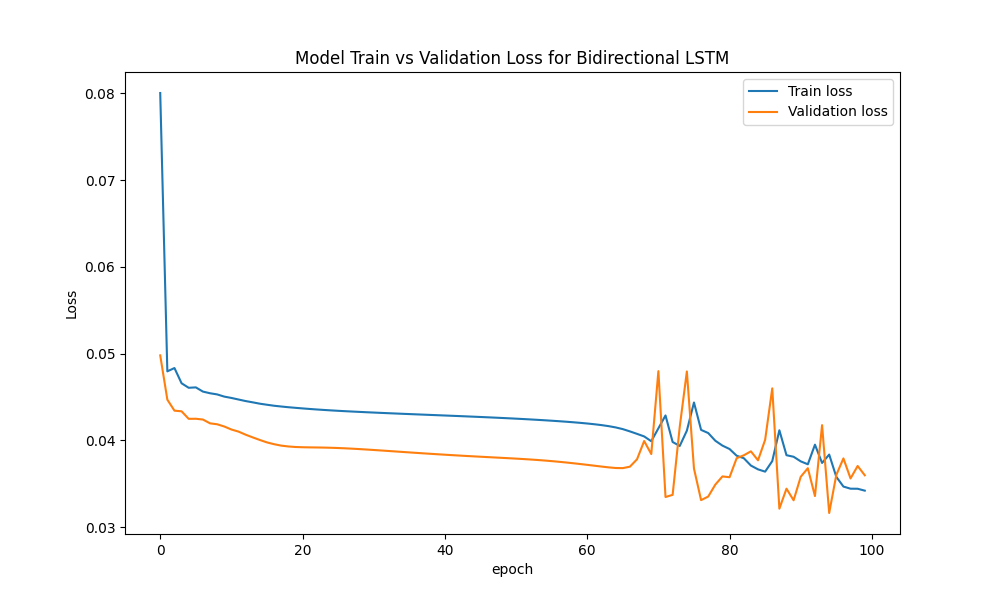
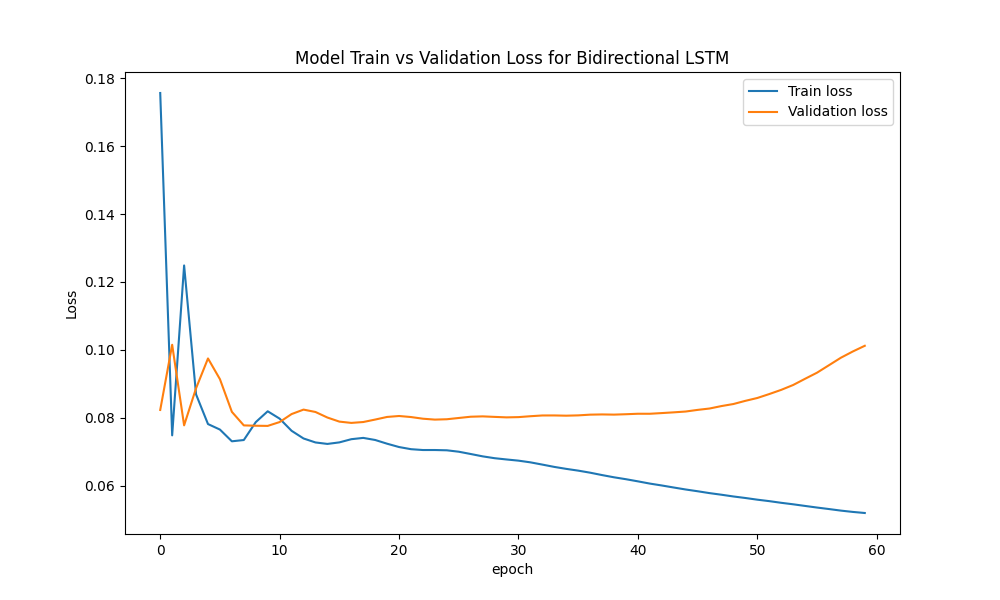
CPU prediction server changes added

diff --git a/src/optimize_server/app/services/cpu_prediction_service.py b/src/optimize_server/app/services/cpu_prediction_service.py
@@ -26,83 +26,84 @@ async def history_cpu_start():
     await generate_cpu_utilization_graphs(df)
     return {"status":"history plots complete"}
 
-async def make_pod_predictions_start(pod_name:str):
-    df = await data_load_cpu()
-    df = await preprocess_cpu_utilization_dataset(df)
-    dataframe = df[[pod_name]]
-    train_data, test_data = split_test_and_train(dataframe, 0.6)
-    train_scaled , test_scaled , scaler = scale_data_using_minmax_scaler(train_data, test_data)
-    LOOK_BACK = 30
-    X_train, y_train = create_dataset(train_scaled,LOOK_BACK)
-    X_test, y_test = create_dataset(test_scaled,LOOK_BACK)
-    model_bilstm_obj = Bidirectional_LSTM_model(64,X_train,y_train,100,16)
-    model_gru_obj = GRU_model(64,X_train,y_train,100,16)
-    model_bilstm = model_bilstm_obj.build_model()
-    model_gru = model_gru_obj.build_model()
-    history_BiLSTM,model_bilstm = await model_bilstm_obj.fit_model(model_bilstm)
-    history_GRU,model_gru = await model_gru_obj.fit_model(model_gru)
+# async def make_single_pod_predictions_start(pod_name:str):
+#     df = await data_load_cpu()
+#     df = await preprocess_cpu_utilization_dataset(df)
+#     dataframe = df[[pod_name]]
+#     train_data, test_data = split_test_and_train(dataframe, 0.6)
+#     train_scaled , test_scaled , scaler = scale_data_using_minmax_scaler(train_data, test_data)
+#     LOOK_BACK = 30
+#     X_train, y_train = create_dataset(train_scaled,LOOK_BACK)
+#     X_test, y_test = create_dataset(test_scaled,LOOK_BACK)
+#     model_bilstm_obj = Bidirectional_LSTM_model(64,X_train,y_train,100,16)
+#     model_gru_obj = GRU_model(64,X_train,y_train,100,16)
+#     model_bilstm = model_bilstm_obj.build_model()
+#     model_gru = model_gru_obj.build_model()
+#     history_BiLSTM,model_bilstm = await model_bilstm_obj.fit_model(model_bilstm)
+#     history_GRU,model_gru = await model_gru_obj.fit_model(model_gru)
 
-    plot_loss (history_GRU, 'GRU','cpu')
-    plot_loss (history_BiLSTM, 'Bidirectional LSTM','cpu')   
+#     plot_loss (history_GRU, 'GRU','cpu')
+#     plot_loss (history_BiLSTM, 'Bidirectional LSTM','cpu')   
 
-    y_test = inverse_scale_data(scaler,y_test)
-    y_train = inverse_scale_data(scaler,y_train)
+#     y_test = inverse_scale_data(scaler,y_test)
+#     y_train = inverse_scale_data(scaler,y_train)
 
-    prediction_bilstm = model_bilstm_obj.predict(model_gru,X_test,scaler)
-    prediction_gru = model_gru_obj.predict(model_bilstm,X_test,scaler)
+#     prediction_bilstm = model_bilstm_obj.predict(model_gru,X_test,scaler)
+#     prediction_gru = model_gru_obj.predict(model_bilstm,X_test,scaler)
 
-    def prediction(model):
-        prediction = model.predict(X_train)
-        prediction = scaler.inverse_transform(prediction)
-        return prediction
+#     def prediction(model):
+#         prediction = model.predict(X_train)
+#         prediction = scaler.inverse_transform(prediction)
+#         return prediction
     
-    prediction_gru = prediction(model_gru)
-    prediction_bilstm = prediction(model_bilstm)
+#     prediction_gru = prediction(model_gru)
+#     prediction_bilstm = prediction(model_bilstm)
     
-    await export_predictions_dependecy(prediction_bilstm,'bilstm')
-    await export_predictions_dependecy(prediction_gru,'gru')
+#     await export_predictions_dependecy(prediction_bilstm,'bilstm')
+#     await export_predictions_dependecy(prediction_gru,'gru')
 
-    plot_multi_step(train_data,prediction_gru,prediction_bilstm,'cpu')
-    return []
+#     plot_multi_step(train_data,prediction_gru,prediction_bilstm,'cpu')
+#     return []
 
 async def make_pod_predictions(pod_name:str):
     df = await data_load_cpu_by_podname(pod_name)
     df = await preprocess_cpu_utilization_dataset(df)
-    dataframe = df[["Value"]]
-    train_data, test_data = split_test_and_train(dataframe, 0.8)
+    dataframe = df[["value"]]
+    print(dataframe.head())
+    train_data, test_data = split_test_and_train(dataframe, 0.7)
     train_scaled , test_scaled , scaler = scale_data_using_minmax_scaler(train_data, test_data)
     LOOK_BACK = 30
     X_train, y_train = create_dataset(train_scaled,LOOK_BACK)
     X_test, y_test = create_dataset(test_scaled,LOOK_BACK)
     model_bilstm_obj = Bidirectional_LSTM_model(64,X_train,y_train,100,16)
-    # model_gru_obj = GRU_model(64,X_train,y_train,100,16)
+    # # model_gru_obj = GRU_model(64,X_train,y_train,100,16)
     model_bilstm = model_bilstm_obj.build_model()
-    # model_gru = model_gru_obj.build_model()
+    # # model_gru = model_gru_obj.build_model()
     history_BiLSTM,model_bilstm = await model_bilstm_obj.fit_model(model_bilstm)
-    # history_GRU,model_gru = await model_gru_obj.fit_model(model_gru)
+    # # history_GRU,model_gru = await model_gru_obj.fit_model(model_gru)
 
-    # plot_loss (history_GRU, 'GRU','cpu')
+    # # plot_loss (history_GRU, 'GRU','cpu')
     plot_loss (history_BiLSTM, 'Bidirectional LSTM','cpu')   
 
-    y_test = inverse_scale_data(scaler,y_test)
+    # y_test = inverse_scale_data(scaler,y_test)
     y_train = inverse_scale_data(scaler,y_train)
 
     prediction_bilstm = model_bilstm_obj.predict(model_bilstm,X_test,scaler)
-    # prediction_gru = model_gru_obj.predict(model_gru,model_bilstm,X_test,scaler)
+    # # prediction_gru = model_gru_obj.predict(model_gru,model_bilstm,X_test,scaler)
 
     def prediction(model):
         prediction = model.predict(X_train)
         prediction = scaler.inverse_transform(prediction)
         return prediction
     
-    # prediction_gru = prediction(model_gru)
+    # # prediction_gru = prediction(model_gru)
     prediction_bilstm = prediction(model_bilstm)
     
-    await export_predictions_dependecy(prediction_bilstm,'bilstm')
-    # await export_predictions_dependecy(prediction_gru,'gru')
+    await export_predictions_dependecy(prediction_bilstm,pod_name)
+    # # await export_predictions_dependecy(prediction_gru,'gru')
 
-    # plot_multi_step(train_data,prediction_gru,prediction_bilstm,'cpu')
     plot_multi_step(train_data,prediction_bilstm,'cpu')
+    # plot_multi_step(train_data,prediction_bilstm,'cpu')
     return []
 
 async def data_load_cpu():
@@ -130,6 +131,6 @@ async def preprocess_cpu_utilization_dataset(dataframe):
     df = interpolate_missing_values(dataframe)
     return df
 
-async def export_predictions_dependecy(np_array,model_name):
+async def export_predictions_dependecy(np_array,pod_name):
     df = np_arr_to_df(np_array)
-    export_dataframe_to_csv(df,'cpu',model_name)
+    export_dataframe_to_csv(df,'cpu',pod_name)

diff --git a/src/optimize_server/app/routers/cpu_prediction_router.py b/src/optimize_server/app/routers/cpu_prediction_router.py
@@ -1,5 +1,5 @@
 from fastapi import APIRouter
-from ..services import history_cpu_start,make_pod_predictions_start,return_podname
+from ..services import history_cpu_start,return_podname,make_pod_predictions
 router = APIRouter(
     prefix="/model-prdiction-cpu",
     tags=['CPU_prediction']
@@ -22,9 +22,15 @@ router = APIRouter(
 async def return_pod_names():
     result = await return_podname()
     return result
-# endpoint to start prediction process
-@router.get('/make-prediction_single-pod')
-async def make_pod_predictions(pod_name:str):
-    result = await make_pod_predictions_start(pod_name)    
-    return result
 
+# # endpoint to start prediction process
+# @router.get('/make-prediction_single-pod')
+# async def make_pod_predictions(pod_name:str):
+#     result = await make_single_pod_predictions_start(pod_name)    
+#     return result
+
+# endpoint to start prediction process
+@router.get('/make-prediction_singlepod')
+async def make_podpredictions(pod_name:str):
+    result = await make_pod_predictions(pod_name)    
+    return result

diff --git a/src/optimize_server/app/util/graph_plot_util.py b/src/optimize_server/app/util/graph_plot_util.py
@@ -66,7 +66,7 @@ def plot_future(prediction, model_name, y_test,pred_type):
         plt.xlabel('Time')
         plt.ylabel('CPU utilization')
 
-def plot_multi_step(history, prediction1, prediction2,pred_type):
+def plot_multi_step(history, prediction1,pred_type):
         
         plt.figure(figsize=(15, 6))
         
@@ -76,8 +76,6 @@ def plot_multi_step(history, prediction1, prediction2,pred_type):
         plt.plot(np.arange(range_history), np.array(history), 
                 label='History')
         plt.plot(range_future, np.array(prediction1),
-                label='Forecasted for GRU')
-        plt.plot(range_future, np.array(prediction2),
                 label='Forecasted for BiLSTM')
           
         plt.legend(loc='upper right')

diff --git a/src/optimize_server/app/main.py b/src/optimize_server/app/main.py
@@ -1,10 +1,12 @@
 from fastapi import FastAPI
-from .routers import CPUPredictionRouter,CentralityPredictionRouter,PredictionProviderRouter,DatabaseRouter
+from .routers import CPUPredictionRouter,MemoryPredictionRouter,NetworkPredictionRouter,PredictionProviderRouter,DatabaseRouter
 import uvicorn  
 app = FastAPI()
 
 app.include_router(CPUPredictionRouter)
-app.include_router(CentralityPredictionRouter)
+app.include_router(MemoryPredictionRouter)
+app.include_router(NetworkPredictionRouter)
+# app.include_router(CentralityPredictionRouter)
 app.include_router(PredictionProviderRouter)
 app.include_router(DatabaseRouter)
 

diff --git a/src/optimize_server/app/routers/__init__.py b/src/optimize_server/app/routers/__init__.py
@@ -1,4 +1,5 @@
 from .database_router import router as DatabaseRouter
 from .cpu_prediction_router import router as CPUPredictionRouter
-from .centrality_prediction_router import router as CentralityPredictionRouter
+from .memory_prediction_router import router as MemoryPredictionRouter
+from .network_prediction_router import router as NetworkPredictionRouter
 from .prediction_provider_router import router as PredictionProviderRouter

diff --git a/src/optimize_server/app/routers/network_prediction_router.py b/src/optimize_server/app/routers/network_prediction_router.py
@@ -1,5 +1,5 @@
 from fastapi import APIRouter
-from ..services import history_cpu_start,make_pod_predictions_start,return_pods_start
+from ..services import history_cpu_start
 router = APIRouter(
     prefix="/model-prdiction-network",
     tags=['NETWORK_prediction']

diff --git a/src/optimize_server/app/routers/memory_prediction_router.py b/src/optimize_server/app/routers/memory_prediction_router.py
@@ -1,5 +1,5 @@
 from fastapi import APIRouter
-from ..services import history_cpu_start,make_pod_predictions_start,return_pods_start
+from ..services import history_cpu_start
 router = APIRouter(
     prefix="/model-prdiction-memory",
     tags=['MEMORY_prediction']
